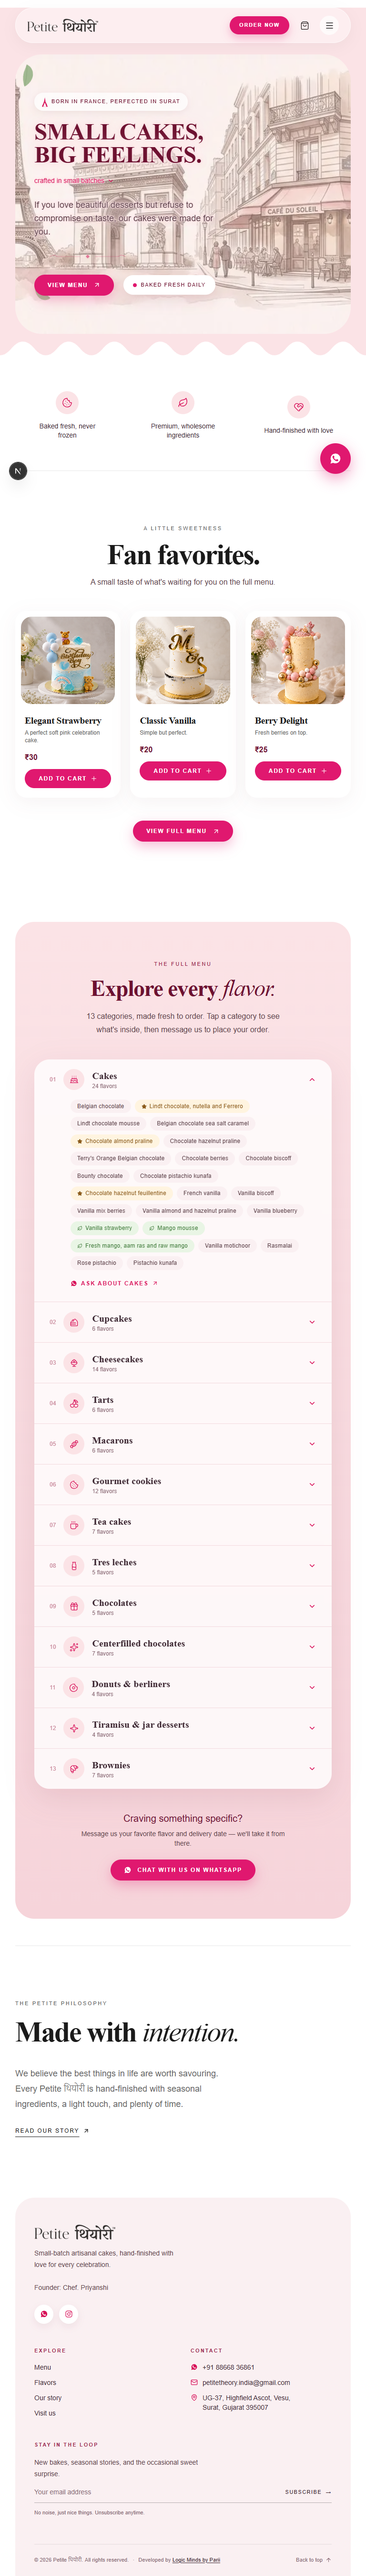
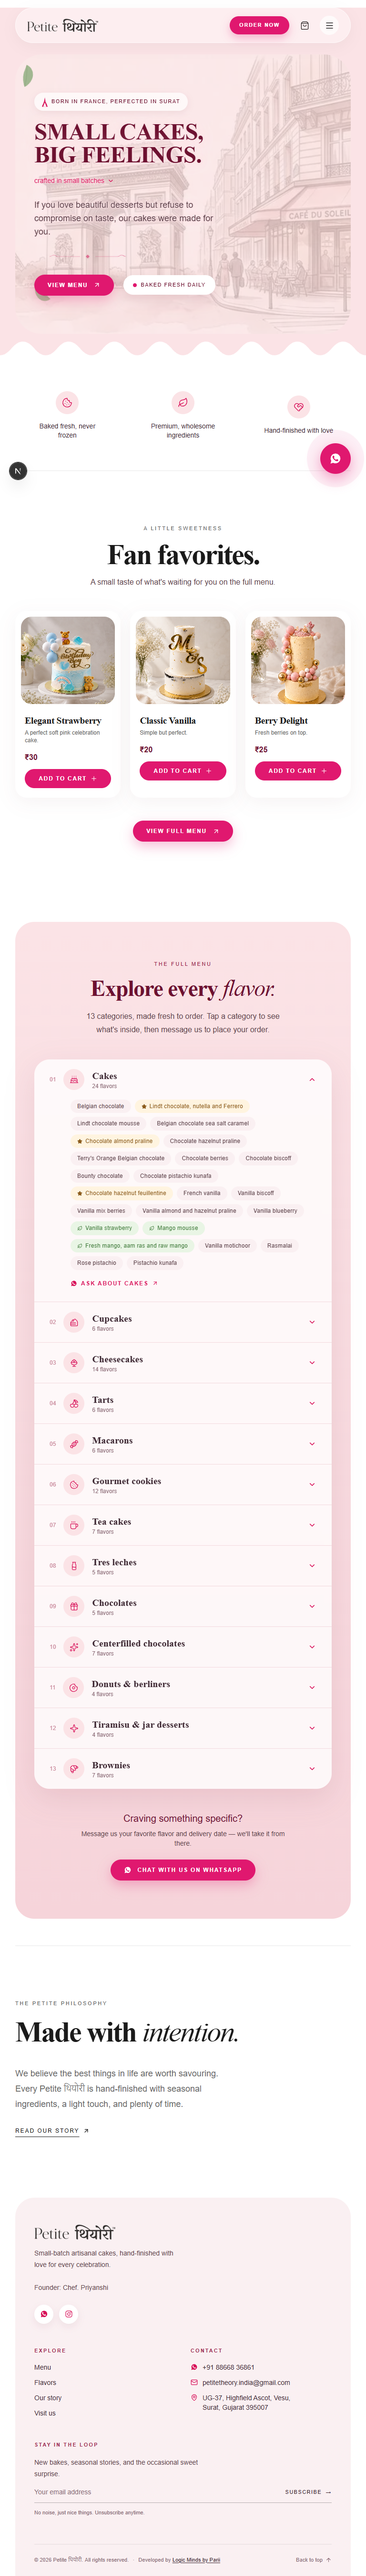
Update HeroSection and UI reports

Changed region(s): [[0.0312, 0.0, 0.9688, 0.1246]]

diff --git a/frontend/src/components/home/HeroSection.tsx b/frontend/src/components/home/HeroSection.tsx
@@ -70,13 +70,14 @@ export default function HeroSection() {
       id="top"
       className="relative isolate transform-gpu overflow-hidden rounded-[2.5rem] bg-[#fbe3e6] sm:rounded-[3.5rem] lg:rounded-[4rem]"
     >
-      <div ref={imageRef} className="absolute inset-0 -z-10 transform-gpu overflow-hidden">
+      <div ref={imageRef} className="absolute inset-0 h-full w-full -z-10 transform-gpu overflow-hidden">
         <Image
           src="/paris-sketch.jpg"
           alt="Watercolor sketch of the Eiffel Tower, Arc de Triomphe, and a Parisian café"
           fill
           priority
-          className="object-cover object-[38%_center] opacity-60 sm:object-[55%_center] lg:object-center"
+          sizes="100vw"
+          className="scale-125 object-cover object-[38%_40%] opacity-25 sm:object-[55%_45%] lg:object-[center_45%]"
         />
       </div>
 
